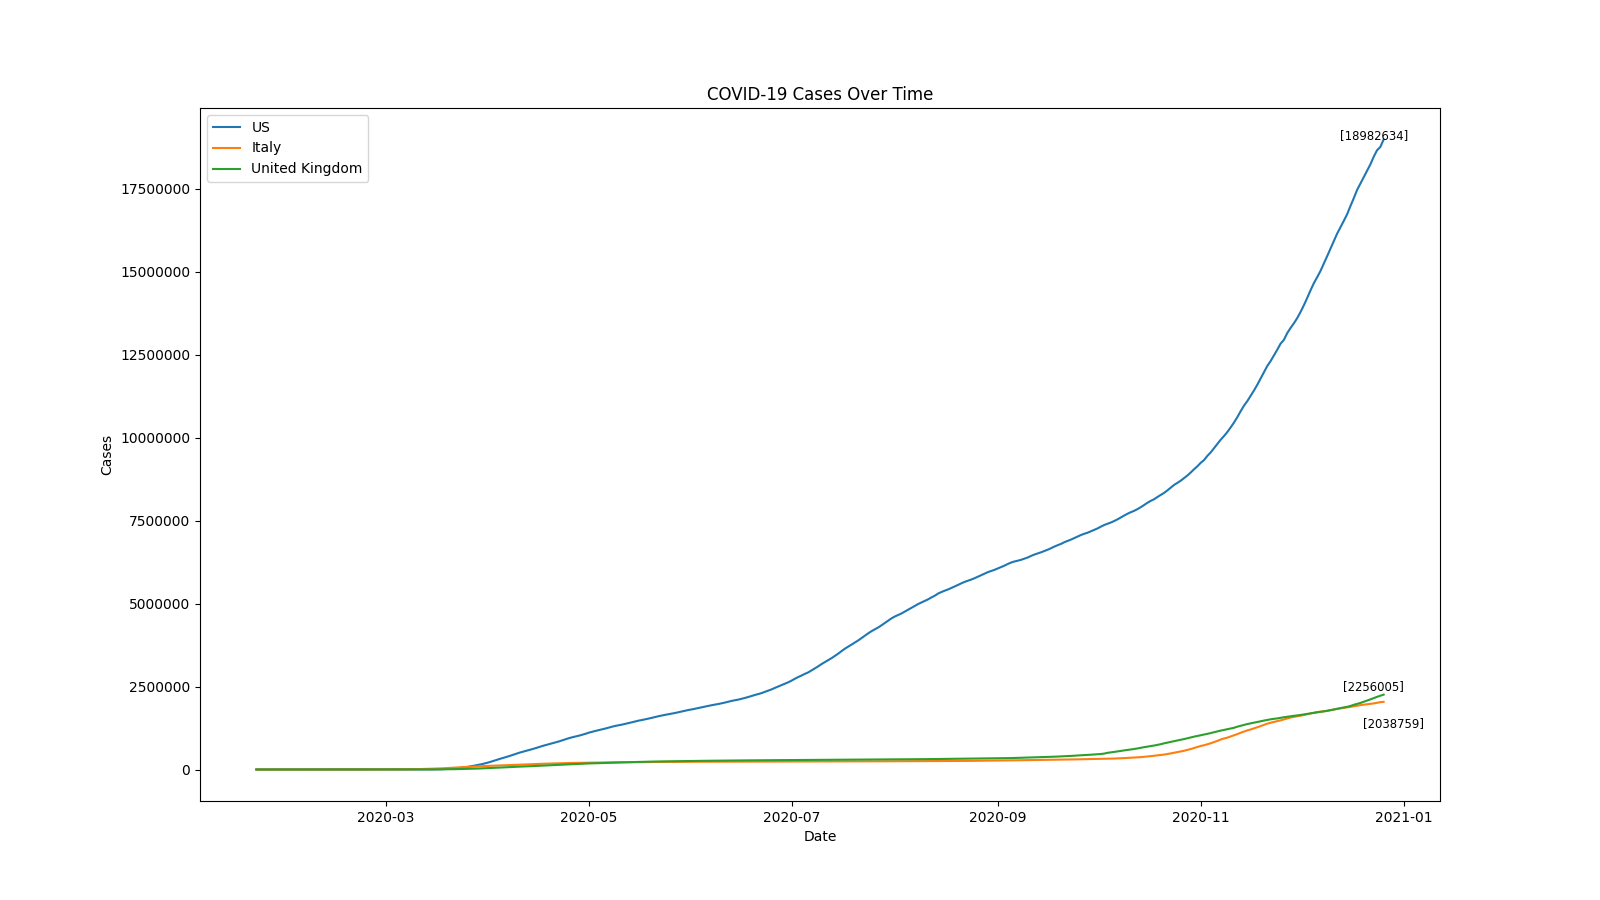
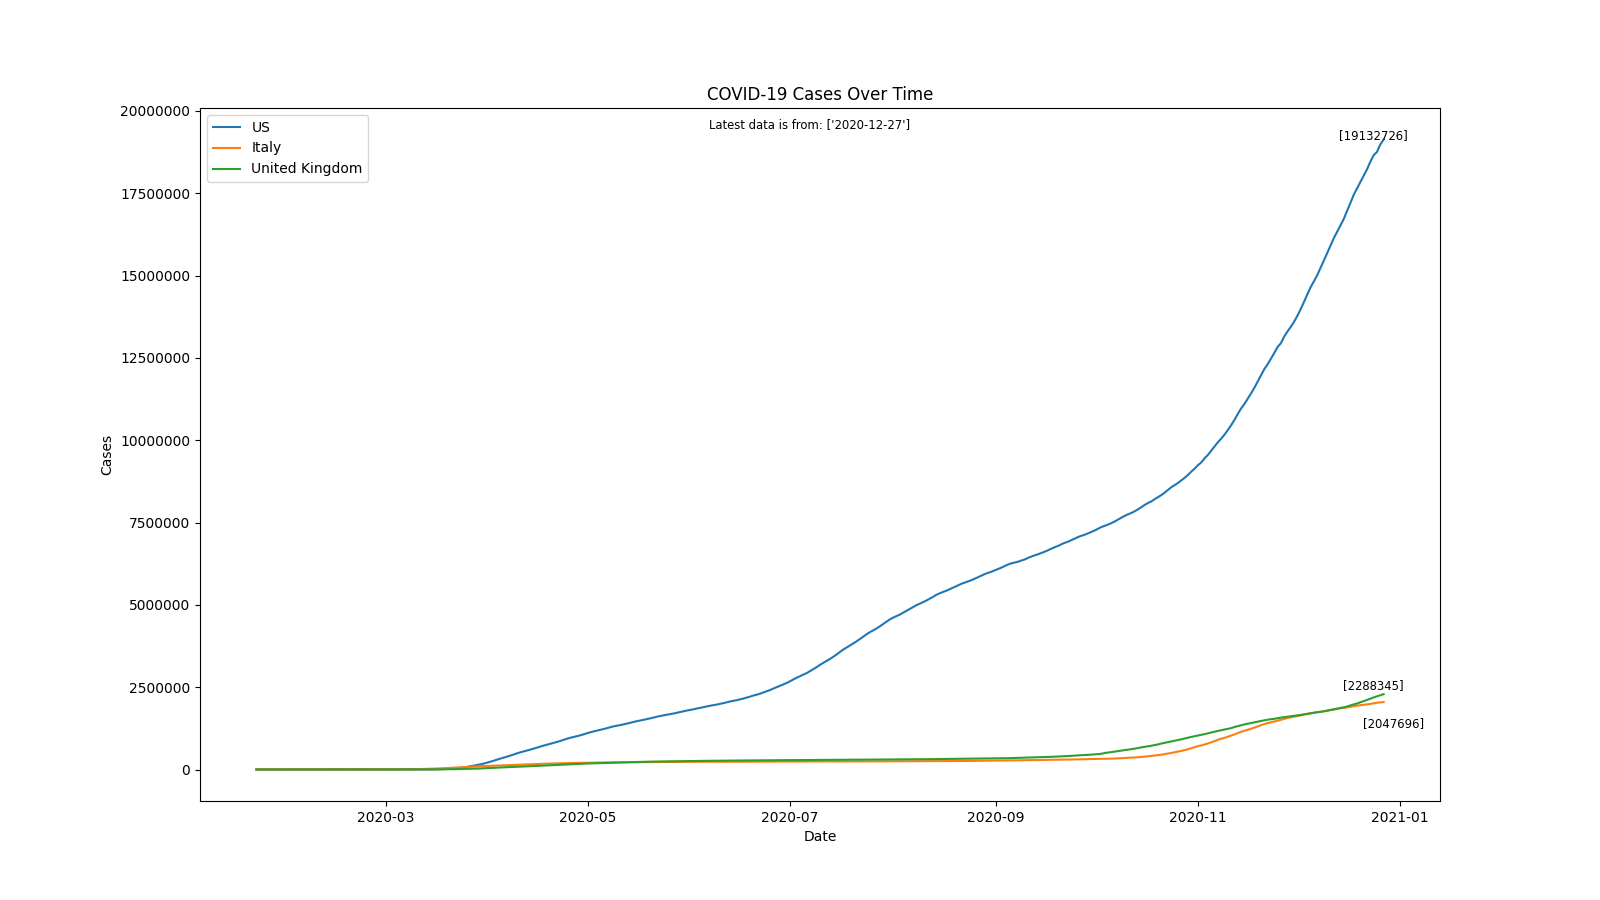
Updates to properly format and display the date of the most recent data

diff --git a/dailycases.py b/dailycases.py
@@ -4,6 +4,7 @@ import pandas as pd
 import matplotlib.pyplot as plt
 import matplotlib.dates as mdates
 import numpy as np
+import datetime
 
 url = 'https://raw.githubusercontent.com/CSSEGISandData/COVID-19/master/csse_covid_19_data/csse_covid_19_time_series/time_series_covid19_confirmed_US.csv'
 
@@ -18,6 +19,9 @@ data = pd.melt(data,id_vars = ['Country_Region'],var_name = 'Date',value_name = 
 # data
 #convert data type
 data["Date"] = pd.to_datetime(data["Date"])
+#data.dtypes
+data["Date"] = data["Date"].date()
+#data
 
 # roll data up to 1 row per day for all of US
 rolleddata = data.groupby(['Country_Region','Date'],as_index=False).sum('Cases')
@@ -38,8 +42,10 @@ topcases['New Cases'] = topcases['New Cases'].astype(np.int64)
 
 #get max date for annotation
 maxdate = rolleddata.sort_values(by='Date',ascending = False).head(1)
-maxdate = maxdate['Date']
-#maxdate
+#maxdate["Date"].dt.strftime('%Y-%m-%d')
+maxdate = maxdate["Date"]
+
+
 
 
 # get important dates for annotation
@@ -97,6 +103,14 @@ for index, row in topcases.iterrows():
                 ,horizontalalignment='center', verticalalignment='top'
                 ,fontsize = 'small'
                 )
+
+#add annotation in top middle for date of latest data
+plt.annotate(f"Latest data is from: {maxdate.dt.strftime('%Y-%m-%d').values}"
+            ,xy=(.5,1),xycoords = 'axes fraction'
+            ,xytext=(-10,-10),textcoords='offset pixels'
+            ,horizontalalignment='center', verticalalignment='top'
+            ,fontsize = 'small'
+            )
 #get current figure
 figure = plt.gcf()
 

diff --git a/dailydeaths.py b/dailydeaths.py
@@ -101,6 +101,14 @@ for index, row in topdeaths.iterrows():
                 ,fontsize = 'small'
                 )
 
+#add annotation in top middle for date of latest data
+plt.annotate(f"Latest data is from: {maxdate.dt.strftime('%Y-%m-%d').values}"
+            ,xy=(.5,1),xycoords = 'axes fraction'
+            ,xytext=(-10,-10),textcoords='offset pixels'
+            ,horizontalalignment='center', verticalalignment='top'
+            ,fontsize = 'small'
+            )
+
 #get current figure
 figure = plt.gcf()
 

diff --git a/totaldeathsovertime.py b/totaldeathsovertime.py
@@ -70,6 +70,14 @@ plt.annotate(curuk['Deaths'].values
             ,fontsize = 'small'
             )
 
+#add annotation in top middle for date of latest data
+plt.annotate(f"Latest data is from: {curus['Date'].dt.strftime('%Y-%m-%d').values}"
+            ,xy=(.5,1),xycoords = 'axes fraction'
+            ,xytext=(-10,-10),textcoords='offset pixels'
+            ,horizontalalignment='center', verticalalignment='top'
+            ,fontsize = 'small'
+            )
+
 #get current figure
 figure = plt.gcf()
 

diff --git a/totalcasesovertime.py b/totalcasesovertime.py
@@ -69,6 +69,13 @@ plt.annotate(curuk['Cases'].values
             ,fontsize = 'small'
             )
 
+#add annotation in top middle for date of latest data
+plt.annotate(f"Latest data is from: {curus['Date'].dt.strftime('%Y-%m-%d').values}"
+            ,xy=(.5,1),xycoords = 'axes fraction'
+            ,xytext=(-10,-10),textcoords='offset pixels'
+            ,horizontalalignment='center', verticalalignment='top'
+            ,fontsize = 'small'
+            )
 
 
 #get current figure
